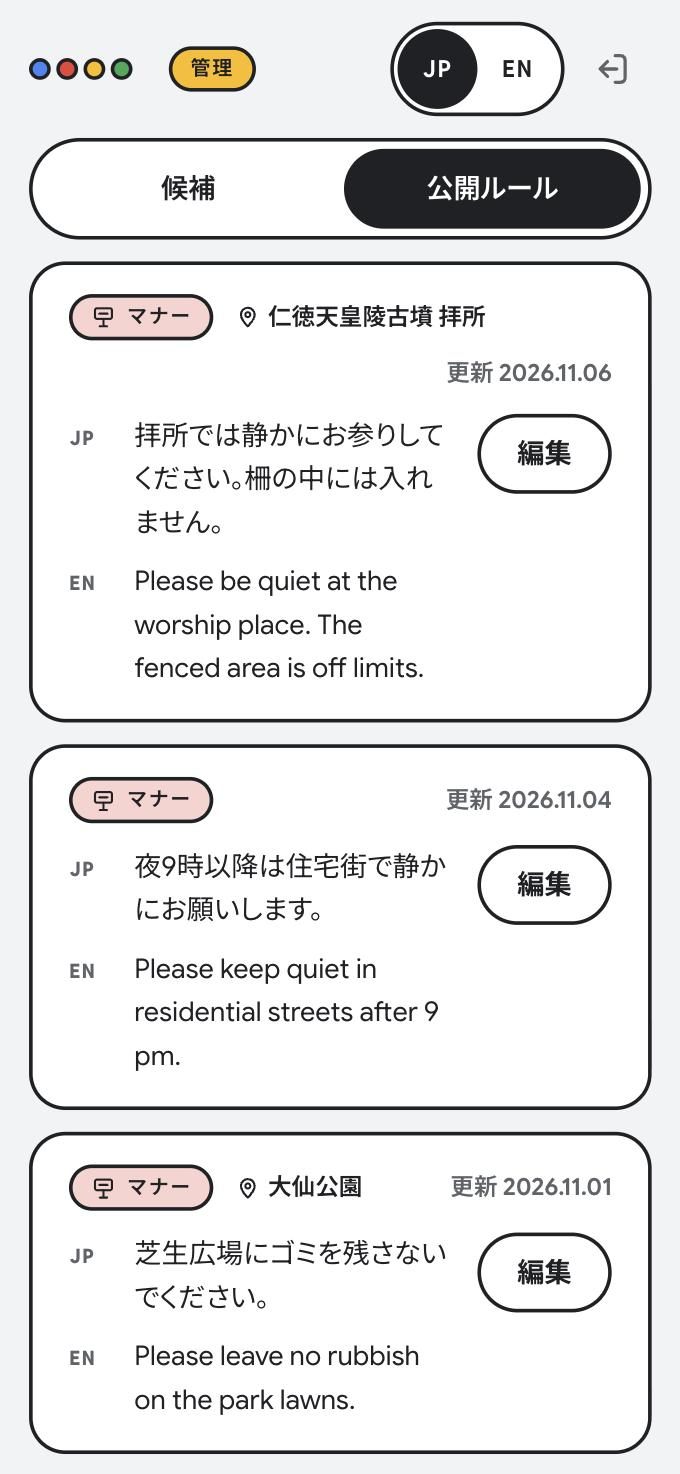
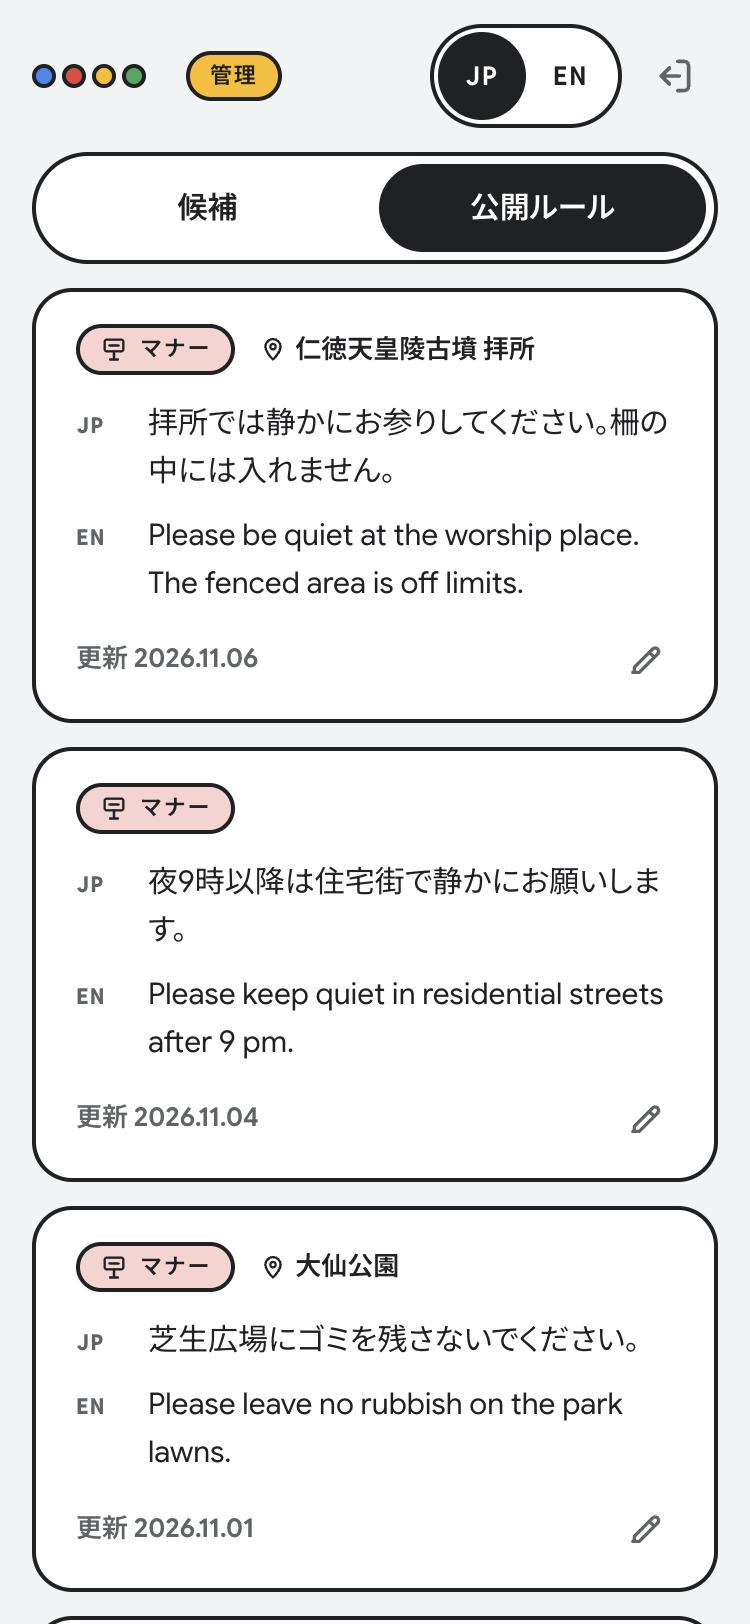
Move rule dates and edit into a card footer
- Updated date on the left and a pencil icon on the bottom right, so
  long place names no longer push the date out of line
- Rule text uses the full card width; editing shows cancel and save
  in the same footer
- Update the design notes and rules screenshot

diff --git a/frontend/React/src/pages/AdminPage.tsx b/frontend/React/src/pages/AdminPage.tsx
@@ -153,9 +153,6 @@ function RulesView({ lang }: { lang: Lang }) {
                 {rule.place[lang]}
               </span>
             )}
-            <span className={styles.date}>
-              {ta("updatedAt", lang)} {formatDate(rule.updatedAt)}
-            </span>
           </div>
 
           {editing === rule.id ? (
@@ -173,7 +170,38 @@ function RulesView({ lang }: { lang: Lang }) {
                   />
                 </label>
               ))}
+            </div>
+          ) : (
+            <dl className={styles.langs}>
+              {(["ja", "en"] as const).map((l) => (
+                <div key={l} className={styles.langRow}>
+                  <dt className={styles.langLabel}>{l === "ja" ? "JP" : "EN"}</dt>
+                  <dd lang={l}>{rule.statement[l]}</dd>
+                </div>
+              ))}
+            </dl>
+          )}
+
+          {/* Footer: when it was last updated on the left, the edit control on the right. */}
+          <div className={styles.ruleFoot}>
+            <span className={styles.date}>
+              {ta("updatedAt", lang)} {formatDate(rule.updatedAt)}
+            </span>
+            {saved === rule.id && (
+              <span className={styles.saved} role="status">
+                <Icon name="check" size={14} strokeWidth={2.4} />
+                {ta("savedRule", lang)}
+              </span>
+            )}
+            {editing === rule.id ? (
               <div className={styles.editActions}>
+                <button
+                  type="button"
+                  className={styles.secondary}
+                  onClick={() => setEditing(undefined)}
+                >
+                  {ta("cancel", lang)}
+                </button>
                 <button
                   type="button"
                   className={styles.primary}
@@ -182,45 +210,23 @@ function RulesView({ lang }: { lang: Lang }) {
                 >
                   {ta("save", lang)}
                 </button>
-                <button
-                  type="button"
-                  className={styles.secondary}
-                  onClick={() => setEditing(undefined)}
-                >
-                  {ta("cancel", lang)}
-                </button>
               </div>
-            </div>
-          ) : (
-            <div className={styles.ruleBody}>
-              <dl className={styles.langs}>
-                {(["ja", "en"] as const).map((l) => (
-                  <div key={l} className={styles.langRow}>
-                    <dt className={styles.langLabel}>{l === "ja" ? "JP" : "EN"}</dt>
-                    <dd lang={l}>{rule.statement[l]}</dd>
-                  </div>
-                ))}
-              </dl>
+            ) : (
               <button
                 type="button"
-                className={styles.secondary}
+                className={styles.editIcon}
+                aria-label={`${ta("editRule", lang)}: ${rule.statement[lang]}`}
+                title={ta("editRule", lang)}
                 onClick={() => {
                   setDraft(rule.statement);
                   setEditing(rule.id);
                   setSaved(undefined);
                 }}
               >
-                {ta("editRule", lang)}
+                <Icon name="edit" size={20} />
               </button>
-            </div>
-          )}
-
-          {saved === rule.id && (
-            <p className={styles.saved} role="status">
-              <Icon name="check" size={16} strokeWidth={2.4} />
-              {ta("savedRule", lang)}
-            </p>
-          )}
+            )}
+          </div>
         </li>
       ))}
     </ul>

diff --git a/frontend/React/src/pages/AdminPage.module.css b/frontend/React/src/pages/AdminPage.module.css
@@ -133,18 +133,41 @@
   font-weight: 600;
 }
 
+.ruleFoot {
+  display: flex;
+  align-items: center;
+  gap: var(--space-2);
+  min-height: 44px;
+  margin: calc(var(--space-2) * -1) 0;
+}
+
 .date {
-  margin-left: auto;
   color: var(--color-ink-soft);
+  white-space: nowrap;
   font-size: 13px;
   font-weight: 600;
 }
 
-.ruleBody {
-  display: flex;
-  align-items: flex-start;
-  justify-content: space-between;
-  gap: var(--space-4);
+/* Pencil: same icon-only treatment as sign out, pinned to the bottom-right corner. */
+.editIcon {
+  display: grid;
+  place-items: center;
+  width: 44px;
+  height: 44px;
+  margin: 0 calc(var(--space-2) * -1) 0 auto;
+  color: var(--color-ink-soft);
+  background: none;
+  border: 0;
+  border-radius: var(--radius-full);
+  cursor: pointer;
+  transition:
+    color var(--duration-base) ease,
+    background-color var(--duration-base) ease;
+}
+
+.editIcon:hover {
+  color: var(--color-ink);
+  background: var(--color-bg);
 }
 
 .langs {
@@ -203,6 +226,7 @@
 .editActions {
   display: flex;
   gap: var(--space-2);
+  margin-left: auto;
 }
 
 .primary,

diff --git a/frontend/React/src/components/Icon.tsx b/frontend/React/src/components/Icon.tsx
@@ -24,6 +24,7 @@ const paths = {
   check: <path d="m5 12.5 4.5 4.5L19 7.5" />,
   send: <path d="M21 3 3 10.4l7.2 2.9L13.6 21 21 3zM10.2 13.3 15 8.6" />,
   arrowUpRight: <path d="M7 17 17 7M9 7h8v8" />,
+  edit: <path d="M4 20h4L19 9a2.1 2.1 0 0 0-3-3L5 17v3zM14 8l3 3" />,
   signOut: (
     <path d="M14 4h3.5A2.5 2.5 0 0 1 20 6.5v11a2.5 2.5 0 0 1-2.5 2.5H14M9.5 16.5 5 12l4.5-4.5M5 12h10" />
   ),

diff --git a/frontend/React/docs/design/README.md b/frontend/React/docs/design/README.md
@@ -68,7 +68,7 @@ Routes: `/admin` (sign-in), `/admin/candidates?type=add|update|review`, `/admin/
 
 - 修正 turns the draft bubble into JP/EN fields at full width, with 保存 / やめる.
 - A decided card collapses to one row with 元に戻す (undo), so a mis-tap is cheap. When a tab is cleared, the mascot says so.
-- **Published rules** can be edited directly; saving moves the updated date.
+- **Published rules** card: category and place on top, JP/EN text at full width, and a footer with the updated date on the left and a pencil icon (named 編集 / Edit plus the rule, for screen readers) in the bottom-right corner. Editing swaps the text for JP/EN fields and the pencil for やめる / 保存 in the same footer; saving moves the updated date and shows 保存しました.
 - Sign-in, decisions and edits are mocked in local state. They become Firebase sign-in, `PATCH /api/admin/candidates/{id}` (`{"action": "approve" | "reject", "statement"?: {ja, en}}`) and `PATCH /api/admin/rules/{id}`.
 
 ## Direction
